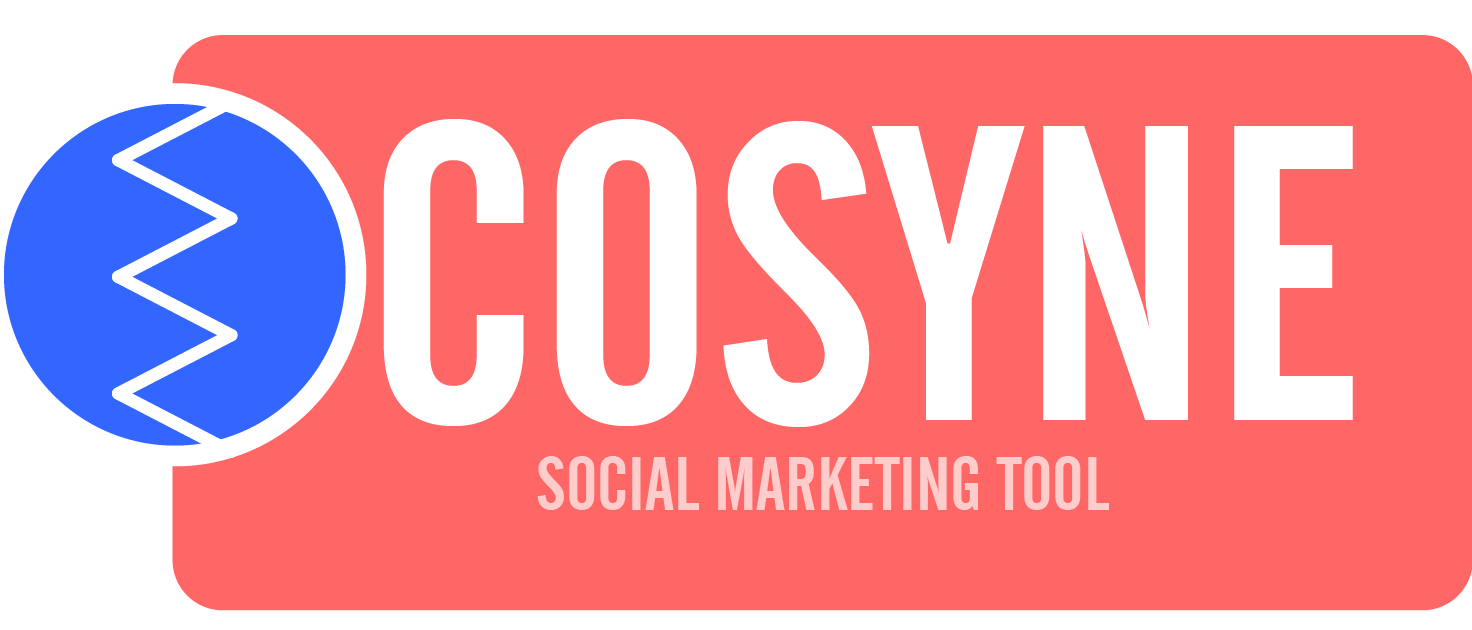
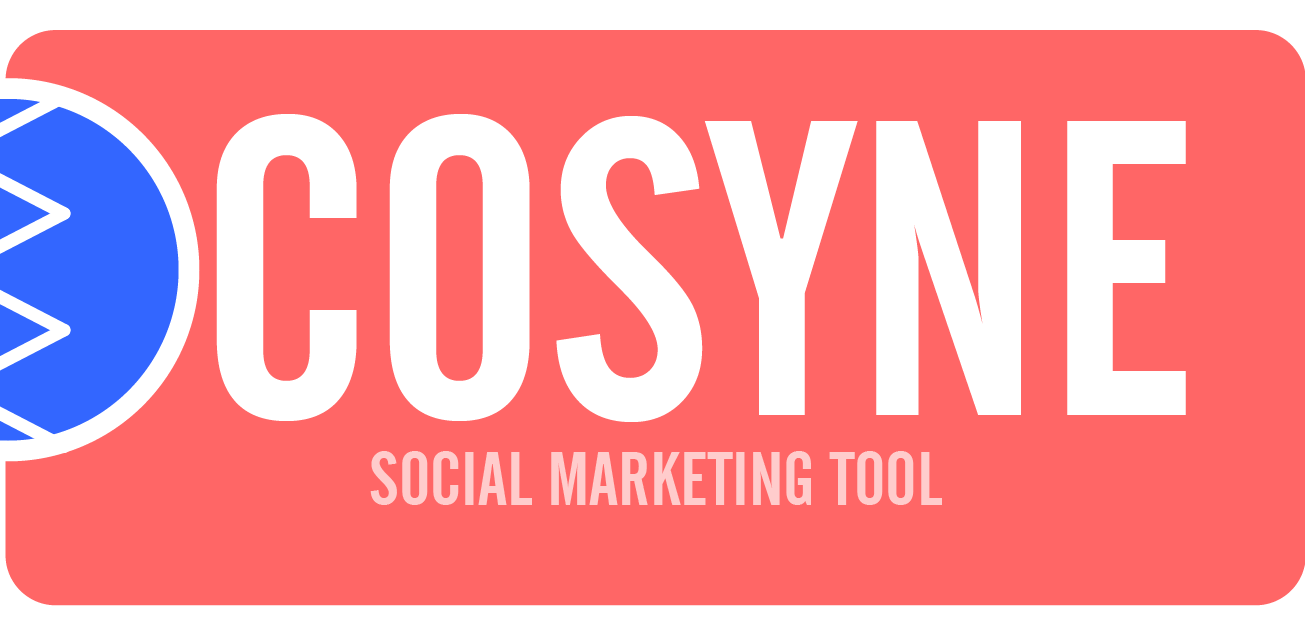
updated register button and field text

diff --git a/Cosyne/src/screens/register.js b/Cosyne/src/screens/register.js
@@ -1,5 +1,6 @@
 import React, { Component } from 'react';
 import PropTypes from 'prop-types';
+import { styles } from '../components/login_style';
 import {
   Alert,
   Image,
@@ -113,11 +114,13 @@ class Register extends Component {
           <Row>
             <Col size={15} />
             <Col size={70}>
-              <Image style={{
+            <Image style={{
+                width: 380,
+                height: 200,
                 flex: 1,
                 aspectRatio: 1.5,
                 resizeMode: 'contain'}}
-                source={require('../assets/imgs/COSIGN-LOGO.jpg')} />
+                source={require('../assets/imgs/cosyneCOLOR5.png')} />
             </Col>
             <Col size={15} />
           </Row>
@@ -126,7 +129,7 @@ class Register extends Component {
             <Col size={84}>
               <Hoshi
                 autoCapitalize = 'none'
-                label={'Email address'}
+                label={'email'}
                 borderColor={'#008894'}
                 onChangeText={(email) => this.handleEmail(email)}
                 value={this.state.email}
@@ -138,7 +141,7 @@ class Register extends Component {
                 autoCapitalize = 'none'
                 editable={this.state.validationMessage  ? false : true}
                 secureTextEntry
-                label={'Password'}
+                label={'password'}
                 borderColor={'#008894'}
                 onChangeText={(password) => this.setState({password})}
                 value={this.state.password}
@@ -147,7 +150,7 @@ class Register extends Component {
                 autoCapitalize = 'none'
                 editable={this.state.validationMessage  ? false : true}
                 secureTextEntry
-                label={'Password confirm'}
+                label={'comfirm-password'}
                 borderColor={'#008894'}
                 onChangeText={(password_confirm) => this.comparePasswords(password_confirm)}
                 value={this.state.password_confirm}
@@ -162,18 +165,17 @@ class Register extends Component {
                 </Text>
               </Row>
               <Button
-                raised
-                disabled = {this.state.validationMessage || !this.state.pass_match ? true : false}
-                buttonStyle = {{
-                  backgroundColor: 'white',
-                  borderColor: '#334433',
-                }}
-                color = '#334433'
-                icon={{name: 'flight', color: '#334433'}}
-                title='Start'
-                underlayColor = '#334433'
-                onPress = {this.handleSubmit}
-              />
+              buttonStyle = {{
+                borderWidth: 1,
+                borderRadius: 20,
+                height: 40,
+                alignItems: 'center',
+                backgroundColor: 'white',
+              }}
+              color='black'
+              title='LOGIN' />
+              
+              <Text style={styles.loginButtonText }>create account</Text>
             </Col>
           </Row>
         </Grid>
@@ -183,3 +185,10 @@ class Register extends Component {
 }
 
 export default Register;
+ //new button 
+ //<View style={styles.login}>
+ //<TouchOpacity style={styles.loginButton}>
+  // <Text style={styles.loginButtonText}>log in</Text>
+  // </TouchOpacity>
+//</View>
+//new button 

diff --git a/Cosyne/src/App.js b/Cosyne/src/App.js
@@ -6,7 +6,7 @@ registerScreens();
 global.startOuterScope = function(){
   Navigation.startSingleScreenApp({
     screen: {
-      screen: 'cosyne.Login', // unique ID registered with Navigation.registerScreen
+      screen: 'cosyne.Register', // unique ID registered with Navigation.registerScreen
       title: 'Welcome', // title of the screen as appears in the nav bar (optional)
       navigatorStyle: {}, // override the navigator style for the screen, see "Styling the navigator" below (optional)
       navigatorButtons: {} // override the nav buttons for the screen, see "Adding buttons to the navigator" below (optional)

diff --git a/Cosyne/src/screens/login.js b/Cosyne/src/screens/login.js
@@ -162,6 +162,7 @@ class Login extends Component {
                   <Text style={styles.loginButtonText}>log in</Text>
                   </TouchOpacity>
               </View>
+              //new button 
             </Col>
           </Row>
         </Grid>

diff --git a/Cosyne/src/components/styles.js b/Cosyne/src/components/styles.js
@@ -8,7 +8,7 @@ module.exports = StyleSheet.create({
   container: {
     flex: 1,
     alignItems: 'stretch',
-    backgroundColor: '#F5FCFF',
+    backgroundColor: 'white',
     padding: 20,
     marginTop: Platform.OS === 'android' ? 56 : 0,
   },
